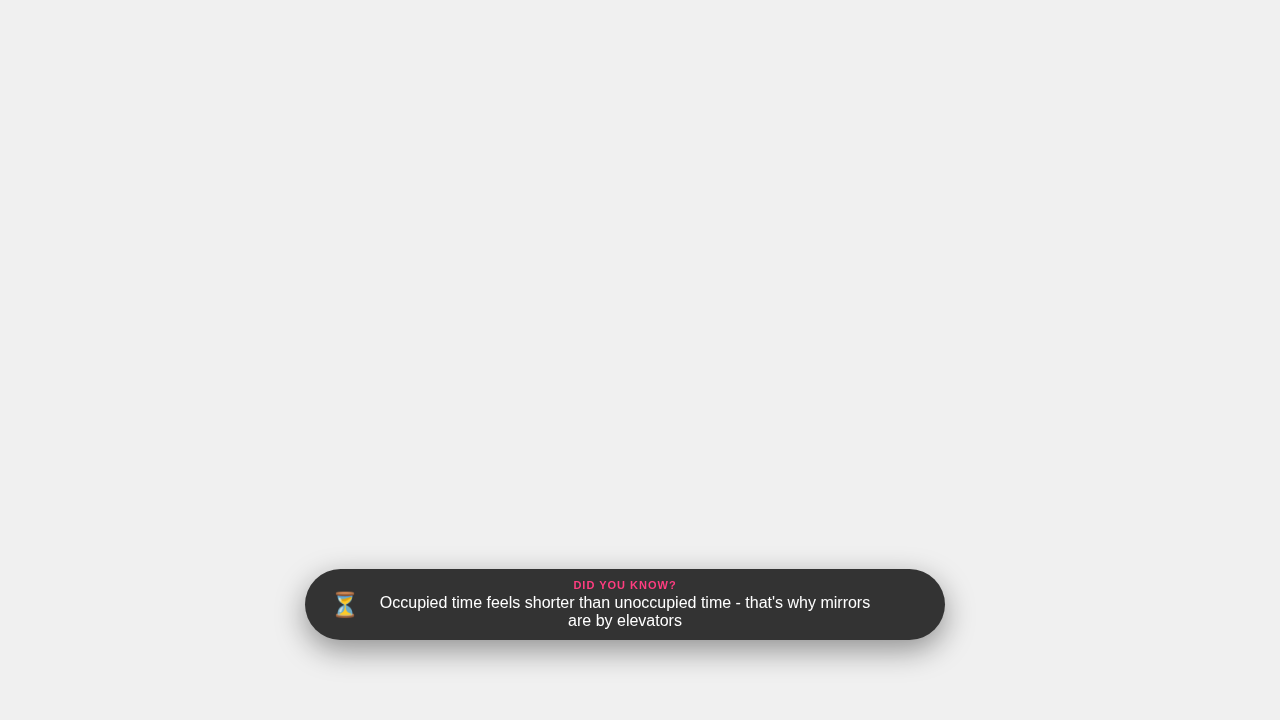
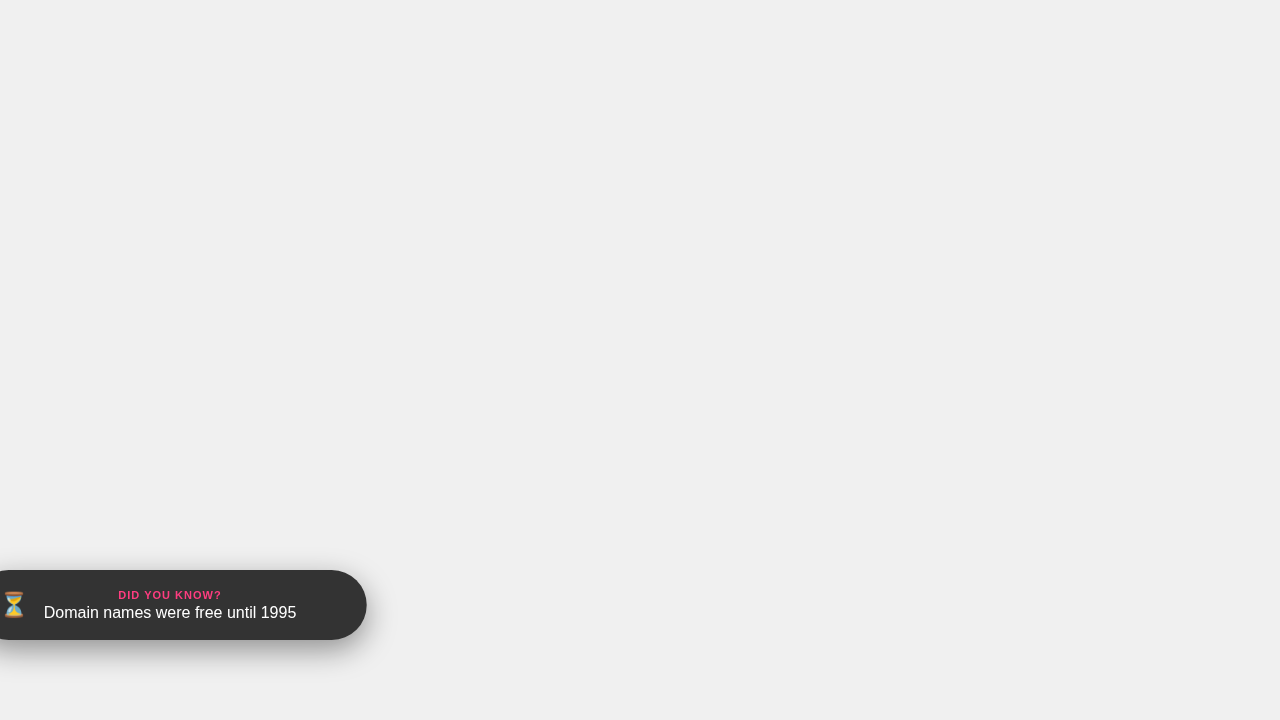
Revert "Refactor Loading Facts detection and visibility logic"
This reverts commit 954ca749ea460bb4e37b03dc4cb86032cfd4b0ae.

Changed region(s): [[0.0, 0.7639, 0.75, 0.9167]]

diff --git a/features/loading-facts.js b/features/loading-facts.js
@@ -62,35 +62,18 @@
             this.settingsLoaded = true;
 
             // Set up MutationObserver to detect dynamically added spinners
-            this.mutationObserver = new MutationObserver(() => {
+            // This ensures we catch i.fa-spin elements added after initial load
+            const observer = new MutationObserver(() => {
                 this.checkForLoading();
             });
-            this.mutationObserver.observe(document.body, { childList: true, subtree: true });
-
-            // IntersectionObserver for visibility tracking
-            this.intersectionObserver = new IntersectionObserver((entries) => {
-                // If the observed spinner changes intersection state, re-check loading
-                this.checkForLoading();
-            }, { threshold: 0.1 }); // Trigger when at least 10% visible
+            observer.observe(document.body, { childList: true, subtree: true });
 
             // Initial check in case the page loaded with a spinner
             this.checkForLoading();
         }
 
-        isElementVisible(element) {
-            if (!element) return false;
-
-            const style = window.getComputedStyle(element);
-            if (style.display === 'none' || style.visibility === 'hidden' || style.opacity === '0') {
-                return false;
-            }
-
-            const rect = element.getBoundingClientRect();
-            return rect.width > 0 && rect.height > 0;
-        }
-
         checkForLoading() {
-            // Debounce the check to prevent flickering
+            // Debounce the check to prevent flickering if the spinner pulses
             if (this.debounceTimer) clearTimeout(this.debounceTimer);
 
             this.debounceTimer = setTimeout(() => {
@@ -105,44 +88,21 @@
                     return;
                 }
 
-                // Updated Selector Logic:
-                // 1. Specific VP Block Spinner
-                // 2. mo-spinner (tag or class)
-                // 3. Shadow DOM spinner
-                // 4. Generic FA spinner
-                const spinner = document.querySelector('div#vp-block > i.fa.fa-circle-o-notch.fa-spin') ||
-                                document.querySelector('mo-spinner') ||
+                // MATCHING STATS-COLLECTOR LOGIC:
+                // Prioritize mo-spinner (tag or class), then Shadow DOM 'svg.spinner', then standard FA spinner.
+                const spinner = document.querySelector('mo-spinner') ||
                                 document.querySelector('.mo-spinner') ||
                                 window.utils.queryShadowDom('svg.spinner') ||
                                 document.querySelector('i.fa-spin');
 
-                // Strict Visibility Check
-                // We check if it exists AND is visually perceptible
-                const isVisible = spinner && this.isElementVisible(spinner);
+                const isLoading = !!spinner;
 
-                if (isVisible) {
-                    // If we have a visible spinner, ensure we are observing it for intersection changes
-                    // Only need to observe if not already observed (simplification: observe ensures callback)
-                    this.intersectionObserver.disconnect(); // Clear old observations to be safe
-                    this.intersectionObserver.observe(spinner);
-
-                    // Note: IntersectionObserver callback is async.
-                    // We can check intersection immediately via checkVisibility if supported,
-                    // but for now relying on isElementVisible (computed styles) is robust for CSS hiding.
-                    // IntersectionObserver helps if it scrolls out of view, which triggers this callback loop again.
-
-                    if (!this.isVisible) {
-                        this.showToast(spinner);
-                    } else {
-                        // Update position if already visible (e.g. dynamic resize)
-                        // This is handled by the resize listener in showToast/hideToast, but strictly
-                        // speaking we might want to update target if spinner element CHANGED.
-                        // For now, assume single spinner flow.
-                    }
-                } else {
-                    if (this.isVisible) {
-                        this.hideToast();
-                    }
+                if (isLoading && !this.isVisible) {
+                    this.showToast(spinner);
+                } else if (!isLoading && this.isVisible) {
+                    // Check if the spinner we used is actually gone
+                    // (Here we rely on isLoading being false if no spinner is found)
+                    this.hideToast();
                 }
             }, DEBOUNCE_DELAY_MS);
         }

diff --git a/verification/test.html b/verification/test.html
@@ -80,25 +80,6 @@
 
         wrapper.appendChild(spinner);
         shadow.appendChild(wrapper);
-
-        // Add the specific VP block spinner to test the new selector
-        // This simulates the structure: div#vp-block > i.fa.fa-circle-o-notch.fa-spin
-        const vpBlock = document.createElement('div');
-        vpBlock.id = 'vp-block';
-        // Initially visible
-        vpBlock.style.display = 'block';
-        vpBlock.style.width = '50px';
-        vpBlock.style.height = '50px';
-
-        const faSpinner = document.createElement('i');
-        faSpinner.className = 'fa fa-circle-o-notch fa-spin';
-        faSpinner.style.display = 'block';
-        faSpinner.style.width = '20px';
-        faSpinner.style.height = '20px'; // Ensure dimensions > 0 for visibility check
-
-        vpBlock.appendChild(faSpinner);
-        document.body.appendChild(vpBlock);
-
     </script>
     <script src="../features/loading-facts.js"></script>
     <script>
